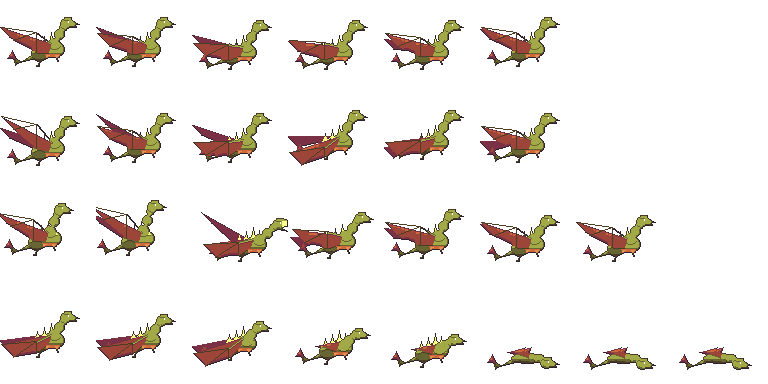
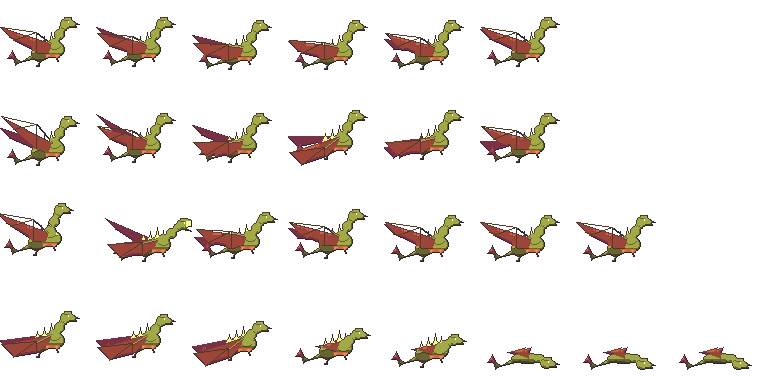
fix(roster): remediate review findings — round 3 (CanTargetAir audit + voltherax + vale rally)
Final round of adversarial-review remediation:
- #9 CanTargetAir over-grant: strip the flag from 6 low/mid units that should not
  hit air (forest_archer, vale_chanter, cinder_acolyte, glacier_adept, plague_bell,
  quarry_slinger). Each element still keeps its design anti-air unit, so the
  >=1-low-rarity-AA-per-element guarantee holds.
- #11 voltherax skip-windup ("You Heard It Late"): ForeswingTicks 8 -> 3 in catalog
  and manifest; sheet + contact sheets re-rendered to match.
- #7 vale_chanter rally aura (MAJOR): new RallyDamageAuraPct/RallyDamageAuraRadius
  UnitDef primitive with a positional best-aura lookup (mirrors HasteHaloPct,
  non-stacking) folded into ScaledDamage; wired onto vale_chanter (+12% within
  radius 5). TDD'd in RallyAuraTest (boost applies in-range, gated out-of-range).

Logic 289 / Integration 9 / Sanity 2, all green.

Changed region(s): [[0.125, 0.5, 0.625, 0.6875], [0.625, 0.5938, 0.6562, 0.625]]

diff --git a/Tests/Logic/Sim/RallyAuraTest.cs b/Tests/Logic/Sim/RallyAuraTest.cs
@@ -1,0 +1,118 @@
+namespace DraconicWars.Tests.Logic.Sim;
+
+using System.Collections.Generic;
+using System.Linq;
+using DraconicWars.Sim.Battle;
+using DraconicWars.Sim.Units;
+using GdUnit4;
+using static GdUnit4.Assertions;
+
+/// <summary>
+/// vale_chanter's rally aura (roster-expansion-40.md §4): allies within RallyDamageAuraRadius
+/// deal RallyDamageAuraPct more damage. A pure enabler fed into the shared ScaledDamage
+/// multiplier — non-stacking (best overlapping aura wins), mirroring the haste-halo.
+/// </summary>
+[TestSuite]
+public class RallyAuraTest
+{
+    private static void AdvanceTicks(BattleSim sim, BattleState state, int ticks)
+    {
+        for (var i = 0; i < ticks; i++)
+        {
+            sim.Advance(state, SimCommand.None);
+        }
+    }
+
+    private static int EnemyDamageOver(bool withRally, int ticks)
+    {
+        // A stationary ally chips a high-HP dummy; the only variable is whether a rally
+        // source sits within radius. Fixed swing cadence => any damage delta is per-hit.
+        var attacker = TestUnits.Grunt("atk") with
+        {
+            MoveSpeed = 0f, Range = 30f, Damage = 10, ForeswingTicks = 4, BackswingTicks = 4,
+            KnockbackCount = 0,
+        };
+        var dummy = TestUnits.Grunt("dummy") with { MoveSpeed = 0f, MaxHp = 100000, KnockbackCount = 0 };
+        var rally = TestUnits.Grunt("rally") with
+        {
+            MoveSpeed = 0f, DeployCost = 0, CanTargetGround = false, CanTargetAir = false,
+            RallyDamageAuraPct = 0.5f, RallyDamageAuraRadius = 6f,
+        };
+        var defs = withRally ? new[] { attacker, dummy, rally } : new[] { attacker, dummy };
+        var sim = new BattleSim(BattleConfig.Default, defs);
+        var state = sim.CreateInitialState(1UL);
+        state.Left.Mana = 100000f;
+        state.Right.Mana = 100000f;
+        var cmds = new List<SimCommand>
+        {
+            SimCommand.Deploy(PlayerSide.Left, "atk"),
+            SimCommand.Deploy(PlayerSide.Right, "dummy"),
+        };
+        if (withRally)
+        {
+            cmds.Add(SimCommand.Deploy(PlayerSide.Left, "rally"));
+        }
+        sim.Advance(state, cmds);
+        var atkUnit = state.Units.First(u => u.Def.Id == "atk");
+        var dummyUnit = state.Units.First(u => u.Def.Id == "dummy");
+        atkUnit.X = 5f;
+        dummyUnit.X = 8f;
+        if (withRally)
+        {
+            state.Units.First(u => u.Def.Id == "rally").X = 4f;
+        }
+        AdvanceTicks(sim, state, ticks);
+        return dummyUnit.Def.MaxHp - dummyUnit.Hp;
+    }
+
+    [TestCase]
+    public void RallyAuraMakesNearbyAllyHitHarder()
+    {
+        var plain = EnemyDamageOver(withRally: false, ticks: 120);
+        var rallied = EnemyDamageOver(withRally: true, ticks: 120);
+
+        // Same swing cadence over the same window => the only difference is per-hit damage.
+        AssertThat(rallied > plain).IsTrue();
+    }
+
+    // Same 3-unit structure each time; only the rally source's distance from the ally changes.
+    private static int AllyDamageWithRallyAt(float rallyX, int ticks)
+    {
+        var attacker = TestUnits.Grunt("atk") with
+        {
+            MoveSpeed = 0f, Range = 30f, Damage = 10, ForeswingTicks = 4, BackswingTicks = 4,
+            KnockbackCount = 0,
+        };
+        var dummy = TestUnits.Grunt("dummy") with { MoveSpeed = 0f, MaxHp = 100000, KnockbackCount = 0 };
+        var rally = TestUnits.Grunt("rally") with
+        {
+            MoveSpeed = 0f, DeployCost = 0, CanTargetGround = false, CanTargetAir = false,
+            RallyDamageAuraPct = 0.5f, RallyDamageAuraRadius = 6f,
+        };
+        var sim = new BattleSim(BattleConfig.Default, new[] { attacker, dummy, rally });
+        var state = sim.CreateInitialState(1UL);
+        state.Left.Mana = 100000f;
+        state.Right.Mana = 100000f;
+        sim.Advance(state, new List<SimCommand>
+        {
+            SimCommand.Deploy(PlayerSide.Left, "atk"),
+            SimCommand.Deploy(PlayerSide.Right, "dummy"),
+            SimCommand.Deploy(PlayerSide.Left, "rally"),
+        });
+        var atkUnit = state.Units.First(u => u.Def.Id == "atk");
+        var dummyUnit = state.Units.First(u => u.Def.Id == "dummy");
+        atkUnit.X = 5f;
+        dummyUnit.X = 8f;
+        state.Units.First(u => u.Def.Id == "rally").X = rallyX;
+        AdvanceTicks(sim, state, ticks);
+        return dummyUnit.Def.MaxHp - dummyUnit.Hp;
+    }
+
+    [TestCase]
+    public void RallyAuraDoesNotReachAlliesBeyondRadius()
+    {
+        var inRange = AllyDamageWithRallyAt(4f, 120);            // dist 1 — within radius 6
+        var outOfRange = AllyDamageWithRallyAt(5f - 6f - 2f, 120); // dist 8 — beyond radius
+        AssertThat(inRange > outOfRange).IsTrue(); // the distance gate bounds the rally
+    }
+}

diff --git a/Sim/Battle/BattleSim.cs b/Sim/Battle/BattleSim.cs
@@ -1238,6 +1238,26 @@ public sealed class BattleSim
         return best;
     }
 
+    /// <summary>Best allied rally-damage aura (vale_chanter) covering this unit's position;
+    /// 0 when none. Non-stacking — the strongest overlapping aura wins.</summary>
+    private static float RallyAuraPct(BattleState state, SimUnit unit)
+    {
+        var best = 0f;
+        foreach (var other in state.Units)
+        {
+            if (other.Side != unit.Side || !other.IsAlive || other.Def.RallyDamageAuraPct <= 0f)
+            {
+                continue;
+            }
+            if (MathF.Abs(other.X - unit.X) <= other.Def.RallyDamageAuraRadius
+                && other.Def.RallyDamageAuraPct > best)
+            {
+                best = other.Def.RallyDamageAuraPct;
+            }
+        }
+        return best;
+    }
+
     private void ResolveContact(BattleState state, SimUnit attacker)
     {
         var targets = EnemiesInBand(state, attacker).ToList();
@@ -1682,6 +1702,8 @@ public sealed class BattleSim
         {
             multiplier += attacker.Def.BonusVsImpairedPct;
         }
+
+        multiplier += RallyAuraPct(state, attacker);
 
         if (attacker.Def.Element == Element.Fire)
         {

diff --git a/Game/Content/UnitCatalog.cs b/Game/Content/UnitCatalog.cs
@@ -72,7 +72,7 @@ public static class UnitCatalog
             MaxHp: 70, Damage: 10, ForeswingTicks: 6, BackswingTicks: 12,
             Range: 6.5f, RangeMin: 0f, IsArea: false, MoveSpeed: 1.8f,
             KnockbackCount: 2, DeployCost: 60, DeployCooldownTicks: 90,
-            Stratum: Stratum.Ground, CanTargetGround: true, CanTargetAir: true)
+            Stratum: Stratum.Ground, CanTargetGround: true, CanTargetAir: false)
         {
             Attack = new AttackArchetype(AttackClass.Physical, AttackPose.Shoot, AttackForm.Arrow),
         },
@@ -103,8 +103,10 @@ public static class UnitCatalog
             MaxHp: 90, Damage: 8, ForeswingTicks: 10, BackswingTicks: 20,
             Range: 5.0f, RangeMin: 0f, IsArea: true, MoveSpeed: 1.6f,
             KnockbackCount: 2, DeployCost: 130, DeployCooldownTicks: 180,
-            Stratum: Stratum.Ground, CanTargetGround: true, CanTargetAir: true)
+            Stratum: Stratum.Ground, CanTargetGround: true, CanTargetAir: false)
         {
+            RallyDamageAuraPct = 0.12f,
+            RallyDamageAuraRadius = 5f,
             Attack = new AttackArchetype(AttackClass.Magic, AttackPose.Channel, AttackForm.Ball),
         },
         new UnitDef(
@@ -174,7 +176,7 @@ public static class UnitCatalog
             MaxHp: 80, Damage: 12, ForeswingTicks: 8, BackswingTicks: 12,
             Range: 5.5f, RangeMin: 0f, IsArea: false, MoveSpeed: 1.7f,
             KnockbackCount: 2, DeployCost: 70, DeployCooldownTicks: 90,
-            Stratum: Stratum.Ground, CanTargetGround: true, CanTargetAir: true)
+            Stratum: Stratum.Ground, CanTargetGround: true, CanTargetAir: false)
         {
             PrefersFarthestTarget = true,
             Attack = new AttackArchetype(AttackClass.Magic, AttackPose.Cast, AttackForm.Ball),
@@ -230,7 +232,7 @@ public static class UnitCatalog
             MaxHp: 150, Damage: 16, ForeswingTicks: 10, BackswingTicks: 16,
             Range: 6f, RangeMin: 0f, IsArea: true, MoveSpeed: 1.6f,
             KnockbackCount: 2, DeployCost: 160, DeployCooldownTicks: 240,
-            Stratum: Stratum.Ground, CanTargetGround: true, CanTargetAir: true)
+            Stratum: Stratum.Ground, CanTargetGround: true, CanTargetAir: false)
         {
             ZoneRadius = 2f,
             ZoneSlowPct = 0.4f,
@@ -268,7 +270,7 @@ public static class UnitCatalog
             MaxHp: 300, Damage: 28, ForeswingTicks: 12, BackswingTicks: 22,
             Range: 7f, RangeMin: 2f, IsArea: true, MoveSpeed: 1.0f,
             KnockbackCount: 3, DeployCost: 340, DeployCooldownTicks: 330,
-            Stratum: Stratum.Ground, CanTargetGround: true, CanTargetAir: true)
+            Stratum: Stratum.Ground, CanTargetGround: true, CanTargetAir: false)
         {
             TollRampPct = 0.12f,
             TollRampCap = 1f,
@@ -281,7 +283,7 @@ public static class UnitCatalog
             MaxHp: 130, Damage: 34, ForeswingTicks: 13, BackswingTicks: 20,
             Range: 8.5f, RangeMin: 0f, IsArea: false, MoveSpeed: 1.5f,
             KnockbackCount: 2, DeployCost: 170, DeployCooldownTicks: 240,
-            Stratum: Stratum.Ground, CanTargetGround: true, CanTargetAir: true)
+            Stratum: Stratum.Ground, CanTargetGround: true, CanTargetAir: false)
         {
             BonusVsHighHpPct = 0.5f,
             HighHpThreshold = 300,
@@ -446,7 +448,7 @@ public static class UnitCatalog
         new UnitDef(
             Id: "voltherax", DisplayName: "Voltherax, the Late Thunder", Tier: 4,
             TypeClass: TypeClass.Aerial, Element: Element.Storm,
-            MaxHp: 1400, Damage: 70, ForeswingTicks: 8, BackswingTicks: 12,
+            MaxHp: 1400, Damage: 70, ForeswingTicks: 3, BackswingTicks: 12,
             Range: 7f, RangeMin: 0f, IsArea: false, MoveSpeed: 1.8f,
             KnockbackCount: 4, DeployCost: 0, DeployCooldownTicks: 0,
             Stratum: Stratum.Air, CanTargetGround: true, CanTargetAir: true)

diff --git a/Sim/Units/UnitDef.cs b/Sim/Units/UnitDef.cs
@@ -171,6 +171,13 @@ public sealed record UnitDef(
 
     public float HasteHaloRadius { get; init; }
 
+    /// <summary>&gt;0: allies within RallyDamageAuraRadius deal this damage fraction more (fed
+    /// into the shared ScaledDamage multiplier — non-stacking, best aura wins). vale_chanter's
+    /// rally. See roster-expansion-40.md §4.</summary>
+    public float RallyDamageAuraPct { get; init; }
+
+    public float RallyDamageAuraRadius { get; init; }
+
     /// <summary>&gt;0: attacks loose a real traveling projectile at this speed (units/tick)
     /// instead of resolving hitscan — body-blockable + dodgeable. Damage/element snapshot
     /// at spawn. See roster-expansion-40.md §5.</summary>

diff --git a/art_pipeline/run_expansion_batch.py b/art_pipeline/run_expansion_batch.py
@@ -155,7 +155,9 @@ UNITS: list[dict] = [
         "flyer": {"scale": 3.2, "wing_mult": 1.2, "head": "beaked", "crest": "ridge",
                   "feather_wing": True, "eye_px": 4, "eye_shape": "slit", "boss": True,
                   "dragon": True, "seed": 12},
-        "foreswing_ticks": 8, "backswing_ticks": 12,
+        # skip-windup ("You Heard It Late"): a near-instant strike — the bolt lands before
+        # its telegraph; the contact frame sits early in the attack.
+        "foreswing_ticks": 3, "backswing_ticks": 12,
     },
     {
         "name": "glacereth",